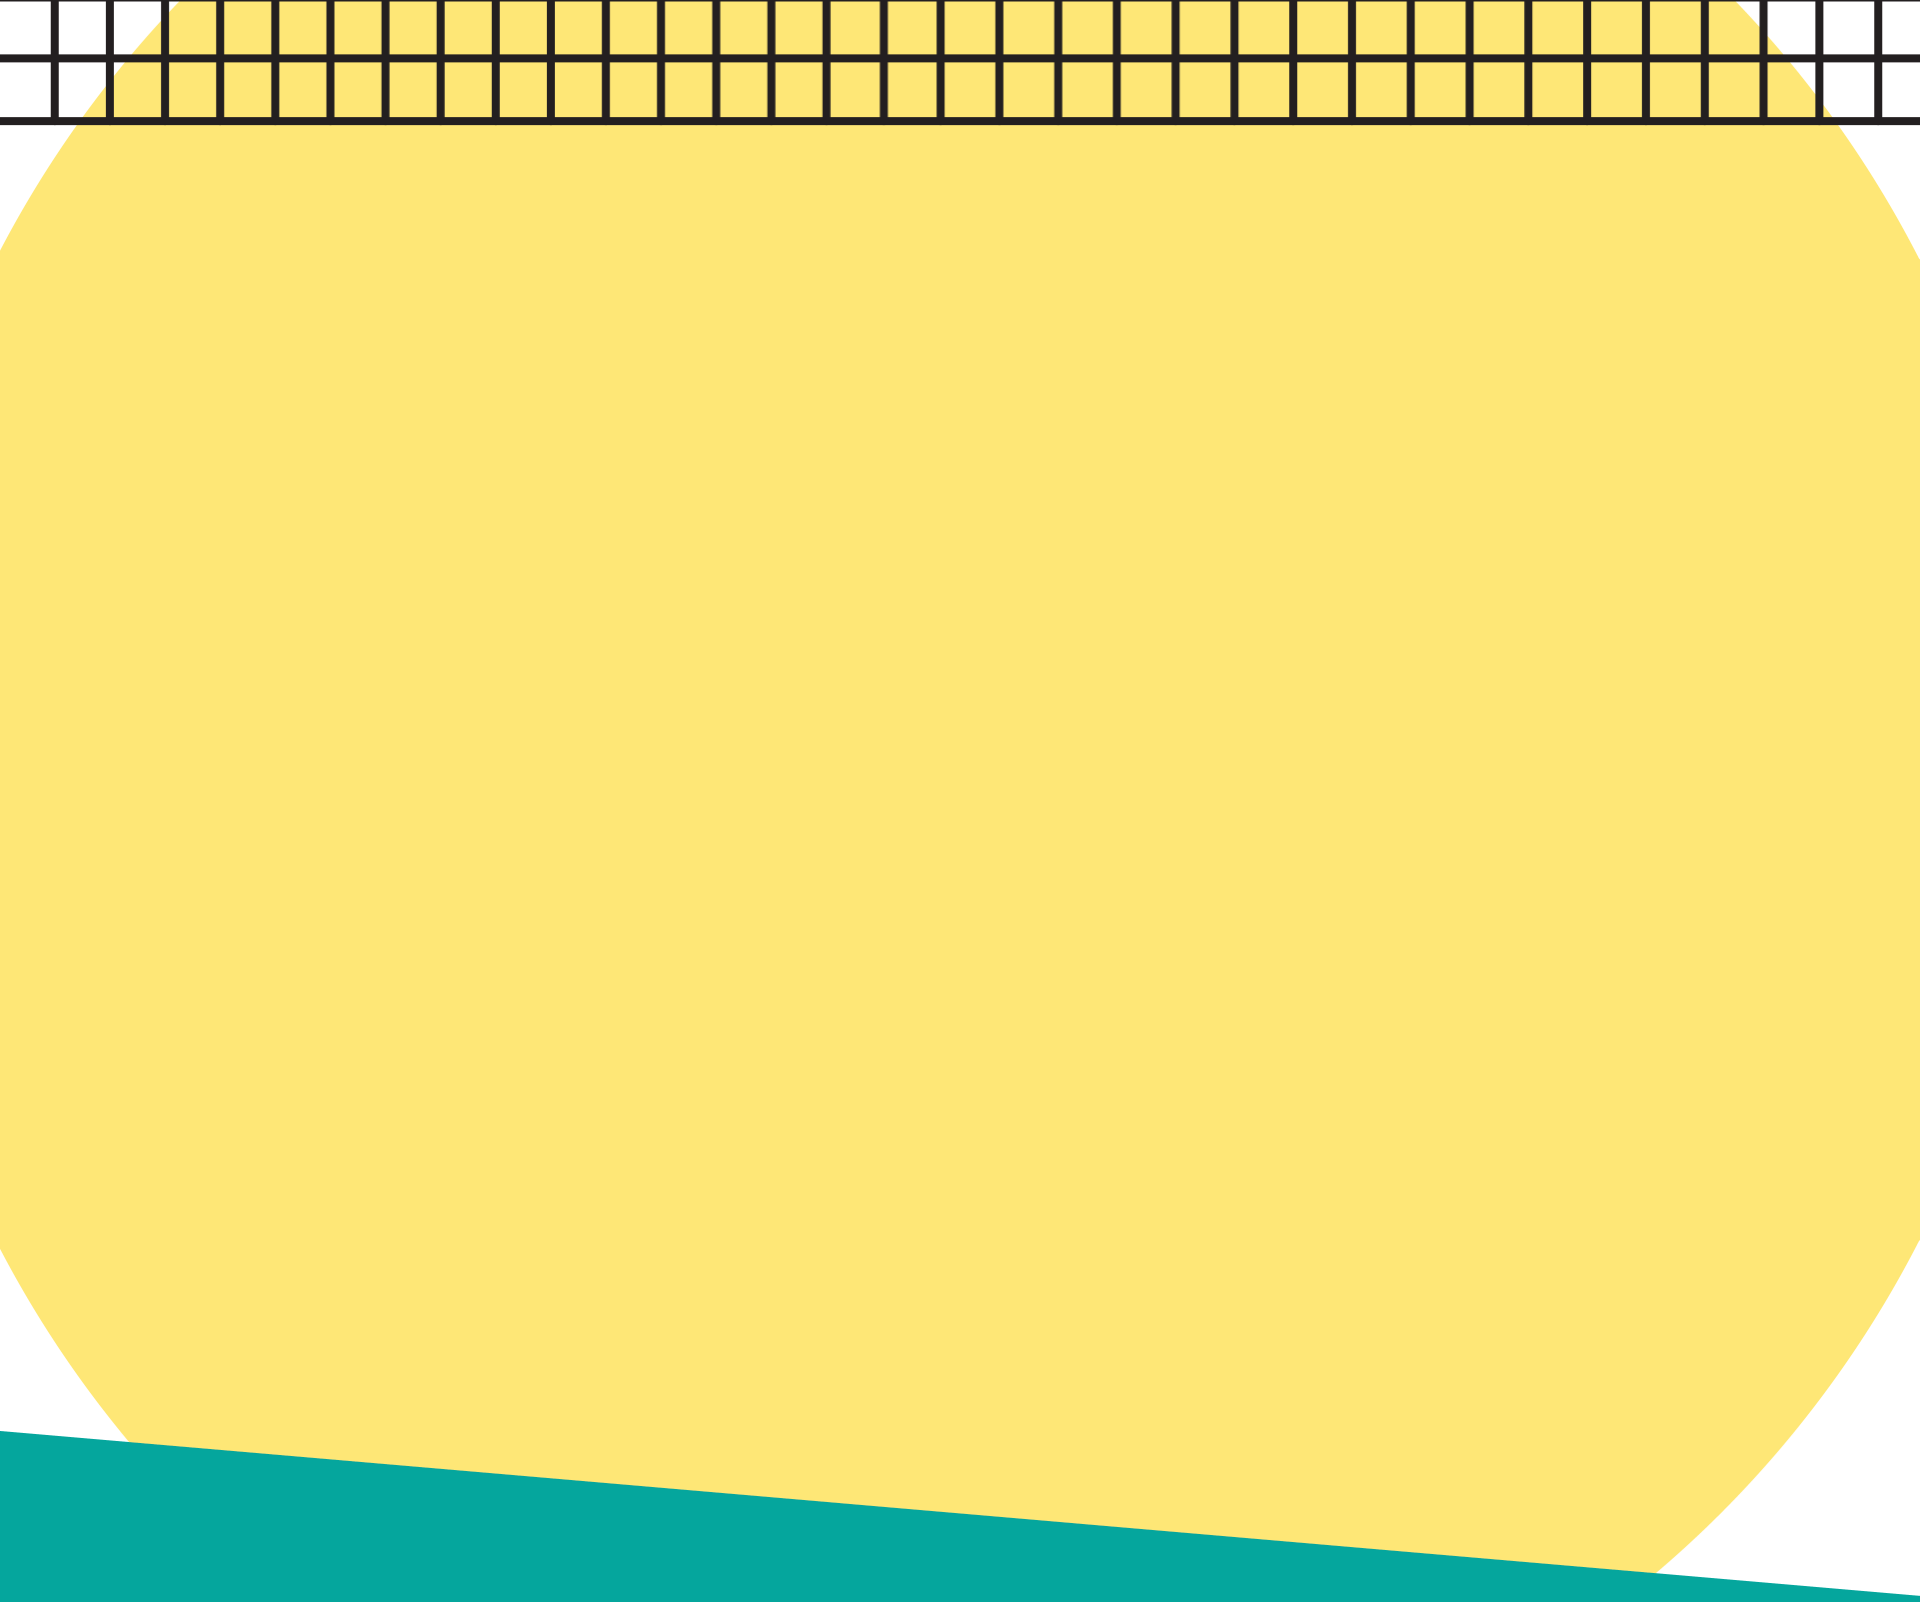
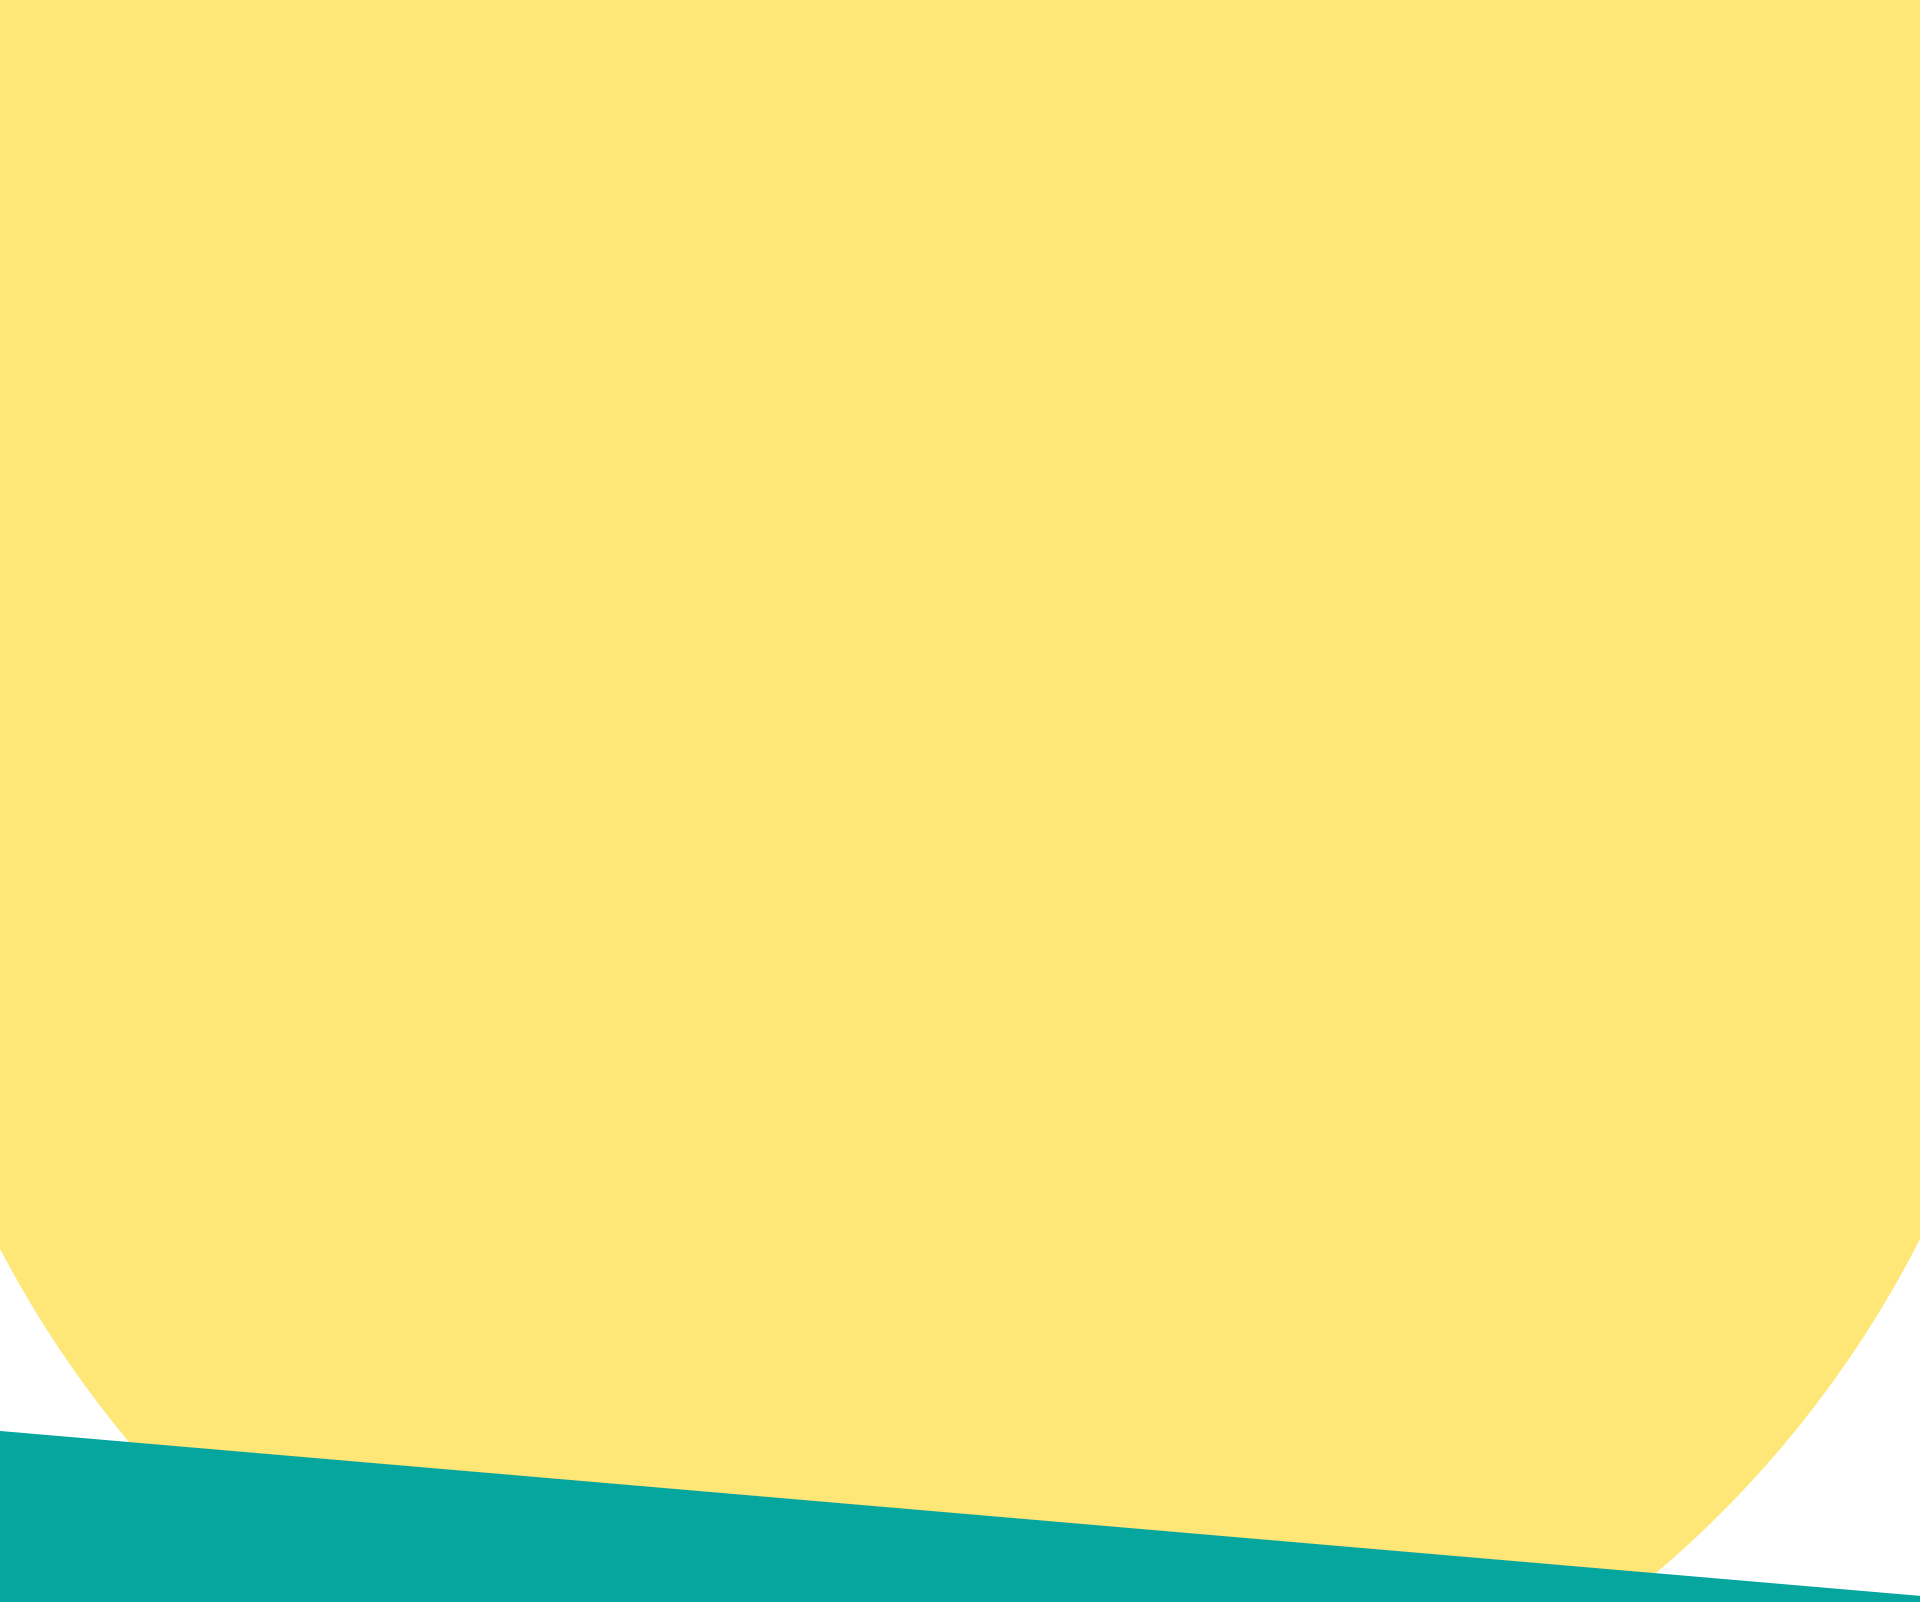
adding FAQ and updating backgrounds

Changed region(s): [[0.0, 0.0, 1.0, 0.1561]]

diff --git a/williamwhite/index.html b/williamwhite/index.html
@@ -22,6 +22,9 @@
                 </div>
                 <img class="home-hero__logo" src="static/img/hero-logo.svg" />
              </div>
+
+             <div class="home-grid-dark"></div>
+
              <div class="sub-hero">
                  <img class="home-hero__image" src="static/img/hero-image.jpg" />
              </div>
@@ -59,6 +62,8 @@
                     </div>
                 </div>
              </div>
+
+             <div class="home-grid-dark -yellow"></div>
 
              <div class="home-section__slot1">
                 <div class="auction-details">
@@ -164,6 +169,51 @@
                             <a href="#" class="button-place-bid">Buy Now</a>
                         </div>
 
+                    </div>
+                </div>
+            </div>
+
+            <div class="home-grid-dark -purple"></div>
+
+            <div class="home-section__faq">
+                <div class="home-details__inner">
+                    <div class="faq-inner">
+                        <div class="home-auction__hdr faq-color">
+                            FAQs
+                        </div>
+                        <div class="faq-row">
+                            <div class="faq-question">
+                                What’s an NFT?
+                            </div>
+                            <div class="faq-answer">
+                                <p>An NFT is a ‘non-fungible token’, which is a one-of-a-kind ownable digital asset that you can virtually collect or trade. When you puchase one of these NFTs, you are the official owner of an original William White piece. Those are some serious bragging rights.</p>
+                            </div>
+                        </div>
+                        <div class="faq-row">
+                            <div class="faq-question">
+                                Do I need cryptocurrency to buy a William White NFT?
+                            </div>
+                            <div class="faq-answer">
+                                <p>Not at all. Right now, we are accepting USD which you can pay through PayPal, Apple Pay, or your everyday credit card. Eventually, we will be minting the purchased NFTs, which is a crypto term meaning that your NFT will become a part of the Ethereum blockchain – the cryptocurrency world where the vast majority of NFTs are held so that your NFT will become tradeable.</p>
+                            </div>
+                        </div>
+                        <div class="faq-row">
+                            <div class="faq-question">
+                                What happens when I buy one of the NFTs?
+                            </div>
+                            <div class="faq-answer">
+                                <p>You’ll be sent the digital collectable to your e-mail you provide right away. Store it on your phone or keep it on your computer and proudly show it off to the William White fan community! Once your NFT is minted, it will also show up in your Ethereum blockchain along with all of your other NFT purchases and trades.</p>
+                                <p>If you’re one of the lucky ones who received an unlockable, you’ll also be gifted the real-world prizes linked to certain NFT purchases – including a personal Zoom call with Will himself! *Swoon*</p>
+                            </div>
+                        </div>
+                        <div class="faq-row">
+                            <div class="faq-question">
+                                Does this mean I’m now a part of a new William White community?
+                            </div>
+                            <div class="faq-answer">
+                                <p>You bet! You’ll get exclusive first access to all of William’s future NFT drops, which we can promise will only get bigger, better, more exciting, and more personal. Welcome to the metaverse... sorry... the Willverse. We’re so happy you’re here with us.</p>
+                            </div>
+                        </div>
                     </div>
                 </div>
             </div>

diff --git a/williamwhite/static/css/william.css b/williamwhite/static/css/william.css
@@ -221,6 +221,10 @@ body {
     color: #ffffff;
 }
 
+.faq-color {
+    color: #f2d95c;
+}
+
 .home-auction__hdr {
     font-weight: bold;
     font-size: 60px;
@@ -317,6 +321,44 @@ body {
 
 .auction-left__slot img {
     width: 100%;
+}
+
+.home-section__faq {
+    background-color: #231f20;
+}
+
+.faq-inner {
+    padding: 100px 20px 100px 180px;
+    background: url(../img/bg-faq.png);
+    background-position: 0 40px;
+    background-size: auto 100%;
+    background-repeat: no-repeat;
+}
+
+.faq-row {
+    padding-top: 60px;
+    line-height: 1.5;
+}
+
+.faq-question {
+    font-weight: bold;
+    color: #7cb4bf;
+    font-size: 22px;
+}
+
+.home-grid-dark {
+    height: 91px;
+    background: url(../img/bg-grid-dark.png);
+    background-color: white;
+    background-size: 40px;
+}
+
+.home-grid-dark.-yellow {
+    background-color: #ffe676;
+}
+
+.home-grid-dark.-purple {
+    background-color: #9588f2;
 }
 
 @media (max-width: 1180px) {
@@ -452,6 +494,10 @@ body {
         right: 0;
         top: auto;
         bottom: 226px;
+    }
+    .faq-inner {
+        padding: 100px 20px 100px 20px;
+        background-image: none;
     }
 }
 
